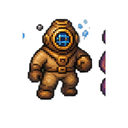
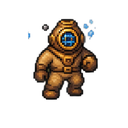
Fix character legibility, camera jitter and card art bleed
Characters rendered at 16x16 turned detailed AI art into mush after the
drastic downscale from the 128x128 source; the frame size is now 32x32
for both real art and the procedural fallback, with a compensating Y
offset in WorldScene so feet stay anchored to the tile.

Diagonal movement jittered because sprite position was Math.round()'d
before Phaser's own roundPixels snapping and camera lerp ran, double-
quantizing it; removed the redundant manual rounding.

10 card illustrations (archer, turret already fixed, plus astronaut,
bull, diver, fox, knight, mine, scarecrow, star_map) had a sliver of
the neighboring sheet cell bled into them; re-cropped each from the
original sheet with alpha-profile-derived boundaries.

Changed region(s): [[0.1875, 0.125, 0.8438, 0.7812], [0.7812, 0.2188, 0.8438, 0.3438], [0.1562, 0.25, 0.25, 0.3125]]

diff --git a/src/render/textures.ts b/src/render/textures.ts
@@ -126,12 +126,18 @@ const FACINGS: readonly Facing[] = ['down', 'up', 'left', 'right'];
 export const characterFrame = (facing: Facing, step: 0 | 1): number => FACINGS.indexOf(facing) * 2 + step;
 
 /**
+ * Персонажи рисуются крупнее тайла (128→16px «кашу» из AI-арта исправили, подняв итоговый
+ * размер кадра до 2 тайлов — см. `WorldScene` про компенсирующий сдвиг по Y).
+ */
+const CHAR_SIZE = TILE_SIZE * 2;
+
+/**
  * `id` — идентификатор персонажа в контенте (`player`, `npc.id`): по нему ищется готовый арт.
  * Нарисованного кадра ходьбы нет — при наличии арта все 8 кадров показывают один и тот же рисунок.
  */
 export const ensureCharacterTexture = (scene: Phaser.Scene, key: string, id: string, look: SpriteLook): string => {
   if (scene.textures.exists(key)) return key;
-  const texture = scene.textures.createCanvas(key, TILE_SIZE * FACINGS.length * 2, TILE_SIZE);
+  const texture = scene.textures.createCanvas(key, CHAR_SIZE * FACINGS.length * 2, CHAR_SIZE);
   if (!texture) throw new Error(`Не удалось создать текстуру ${key}`);
   const ctx = texture.getContext();
   const art = hasCharacterArt(id) ? getArtSource(scene, characterArtKey(id)) : null;
@@ -142,20 +148,25 @@ export const ensureCharacterTexture = (scene: Phaser.Scene, key: string, id: str
   FACINGS.forEach((facing, facingIndex) => {
     for (const step of [0, 1] as const) {
       const frame = facingIndex * 2 + step;
-      const ox = frame * TILE_SIZE;
+      const ox = frame * CHAR_SIZE;
       if (art) {
-        drawArt(ctx, art, ox, TILE_SIZE);
+        drawArt(ctx, art, ox, CHAR_SIZE);
       } else {
-        fill(ctx, ox, INK, [[3, 0, 10, 9], [2, 7, 12, 7]]);
-        fill(ctx, ox, skin, [[4, 3, 8, 5], [2, 9, 1, 3], [13, 9, 1, 3]]);
-        fill(ctx, ox, hat, facing === 'up' ? [[4, 1, 8, 6]] : [[4, 1, 8, 3]]);
-        fill(ctx, ox, body, [[3, 8, 10, 5]]);
-        if (facing === 'down') fill(ctx, ox, INK, [[6, 5, 1, 2], [9, 5, 1, 2]]);
-        if (facing === 'left') fill(ctx, ox, INK, [[5, 5, 1, 2]]);
-        if (facing === 'right') fill(ctx, ox, INK, [[10, 5, 1, 2]]);
-        fill(ctx, ox, INK, step === 0 ? [[5, 13, 2, 3], [9, 13, 2, 3]] : [[5, 13, 2, 3], [9, 13, 2, 1]]);
+        // Процедурная заглушка рисуется в прежней 16-пиксельной сетке, затем масштабируется ×2.
+        ctx.save();
+        ctx.translate(ox, 0);
+        ctx.scale(2, 2);
+        fill(ctx, 0, INK, [[3, 0, 10, 9], [2, 7, 12, 7]]);
+        fill(ctx, 0, skin, [[4, 3, 8, 5], [2, 9, 1, 3], [13, 9, 1, 3]]);
+        fill(ctx, 0, hat, facing === 'up' ? [[4, 1, 8, 6]] : [[4, 1, 8, 3]]);
+        fill(ctx, 0, body, [[3, 8, 10, 5]]);
+        if (facing === 'down') fill(ctx, 0, INK, [[6, 5, 1, 2], [9, 5, 1, 2]]);
+        if (facing === 'left') fill(ctx, 0, INK, [[5, 5, 1, 2]]);
+        if (facing === 'right') fill(ctx, 0, INK, [[10, 5, 1, 2]]);
+        fill(ctx, 0, INK, step === 0 ? [[5, 13, 2, 3], [9, 13, 2, 3]] : [[5, 13, 2, 3], [9, 13, 2, 1]]);
+        ctx.restore();
       }
-      texture.add(frame, 0, ox, 0, TILE_SIZE, TILE_SIZE);
+      texture.add(frame, 0, ox, 0, CHAR_SIZE, CHAR_SIZE);
     }
   });
   texture.refresh();

diff --git a/src/render/scenes/WorldScene.ts b/src/render/scenes/WorldScene.ts
@@ -22,6 +22,8 @@ const STEP_FRAME_MS = 160;
 const TILE_FRAME_MS = 500;
 /** На таком расстоянии (в пикселях) NPC поворачивается к игроку. */
 const NPC_NOTICE_RANGE = TILE_SIZE * 3;
+/** Кадр персонажа — 2 тайла высотой (см. `textures.ts`); сдвиг вверх держит ноги на прежнем месте. */
+const CHAR_Y_OFFSET = -10;
 
 const INK = 0x14121f;
 
@@ -158,7 +160,7 @@ export class WorldScene extends Phaser.Scene {
     if (!paused) session.update(delta, input.getMove());
 
     const state = session.world.player;
-    this.player.setPosition(Math.round(state.x), Math.round(state.y) - 2);
+    this.player.setPosition(state.x, state.y + CHAR_Y_OFFSET);
     const stepPhase = Math.floor(this.time.now / STEP_FRAME_MS) % 2;
     const step = state.moving && stepPhase === 1 ? 1 : 0;
     this.player.setFrame(characterFrame(state.facing, step));
@@ -181,7 +183,7 @@ export class WorldScene extends Phaser.Scene {
     // Патрулирующие NPC идут по маршруту; у игрока рядом — поворачиваются к нему, а не идут дальше по курсу.
     for (const { sprite, index } of this.npcSprites) {
       const view = session.world.npcView(index);
-      sprite.setPosition(Math.round(view.x), Math.round(view.y) - 2);
+      sprite.setPosition(view.x, view.y + CHAR_Y_OFFSET);
       const dx = state.x - view.x;
       const dy = state.y - view.y;
       let facing: Facing = view.facing;
@@ -371,7 +373,7 @@ export class WorldScene extends Phaser.Scene {
       const npc = content.npc(placement.npcId);
       const key = ensureCharacterTexture(this, `char-${npc.id}`, npc.id, npc.look);
       const view = world.npcView(index);
-      const sprite = this.add.sprite(view.x, view.y - 2, key, characterFrame(view.facing, 0)).setDepth(5);
+      const sprite = this.add.sprite(view.x, view.y + CHAR_Y_OFFSET, key, characterFrame(view.facing, 0)).setDepth(5);
       this.npcSprites.push({ sprite, index });
     });
 
